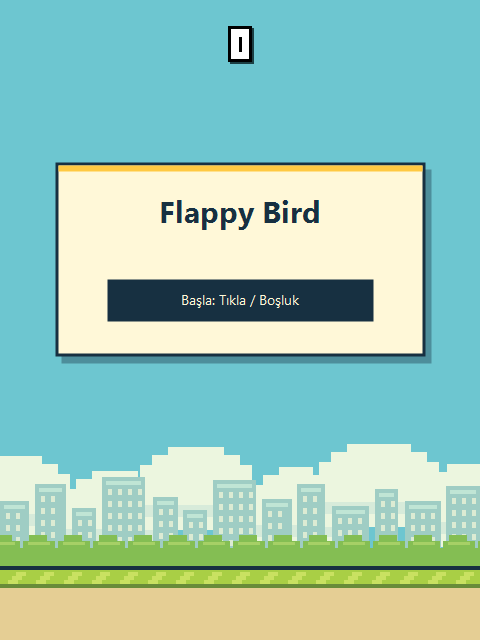
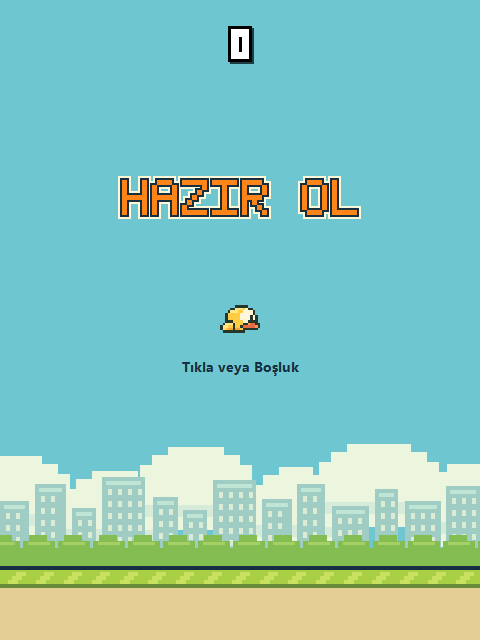
docs: update the ready screen screenshot and controls

Changed region(s): [[0.0938, 0.25, 0.9062, 0.5938]]

diff --git a/README.md b/README.md
@@ -20,7 +20,7 @@ dotnet run --project FlappyBird/FlappyBird.csproj
 
 ## Kontroller ve oyun kuralları
 
-- **Boşluk / Sol tık:** Oyunu başlatır veya kuşu yukarı iter. Fareyle oynamak için oyun alanına tıklayın.
+- **Boşluk / Sol tık:** **HAZIR OL** ekranında ilk sıçramayı yapıp turu başlatır. Tur sırasında kuşu yukarı iter. Fareyle oynamak için oyun alanına tıklayın.
 - **Tekrar oyna:** Game Over ekranı tur skorunu ve rekoru gösterir. Yeni tur için turuncu düğmeye veya oyun alanına tıklayın ya da Boşluk tuşuna basın.
 - İki boru çifti sağdan sola ilerler. Boru açıklığı 120 oyun pikselidir. Açıklığın dikey konumu ve boru çiftleri arasındaki yatay mesafe rastgele belirlenir. Ekrandan çıkan çift sağda yeni bir konumda belirir.
 - **Esc / Duraklatma düğmesi:** Aktif turu duraklatır veya kaldığı yerden sürdürür. Sol üstteki turuncu düğme fareyle aynı işlevi görür. Menüdeki **Devam et** turu sürdürür, **Yeni oyun** ise skoru sıfırlayıp başlangıç ekranına döner.
@@ -37,7 +37,7 @@ Pencere oyun alanının 3:4 oranını koruyarak kenardan veya köşeden yeniden 
 
 **Başlangıç**
 
-![Tıklama ve boşluk tuşu ipuçlarıyla başlangıç ekranı](docs/screenshots/start.png)
+![HAZIR OL başlığı, ortadaki kuş ve Tıkla veya Boşluk ipucu](docs/screenshots/start.png)
 
 **Oyun sırasında**
 
